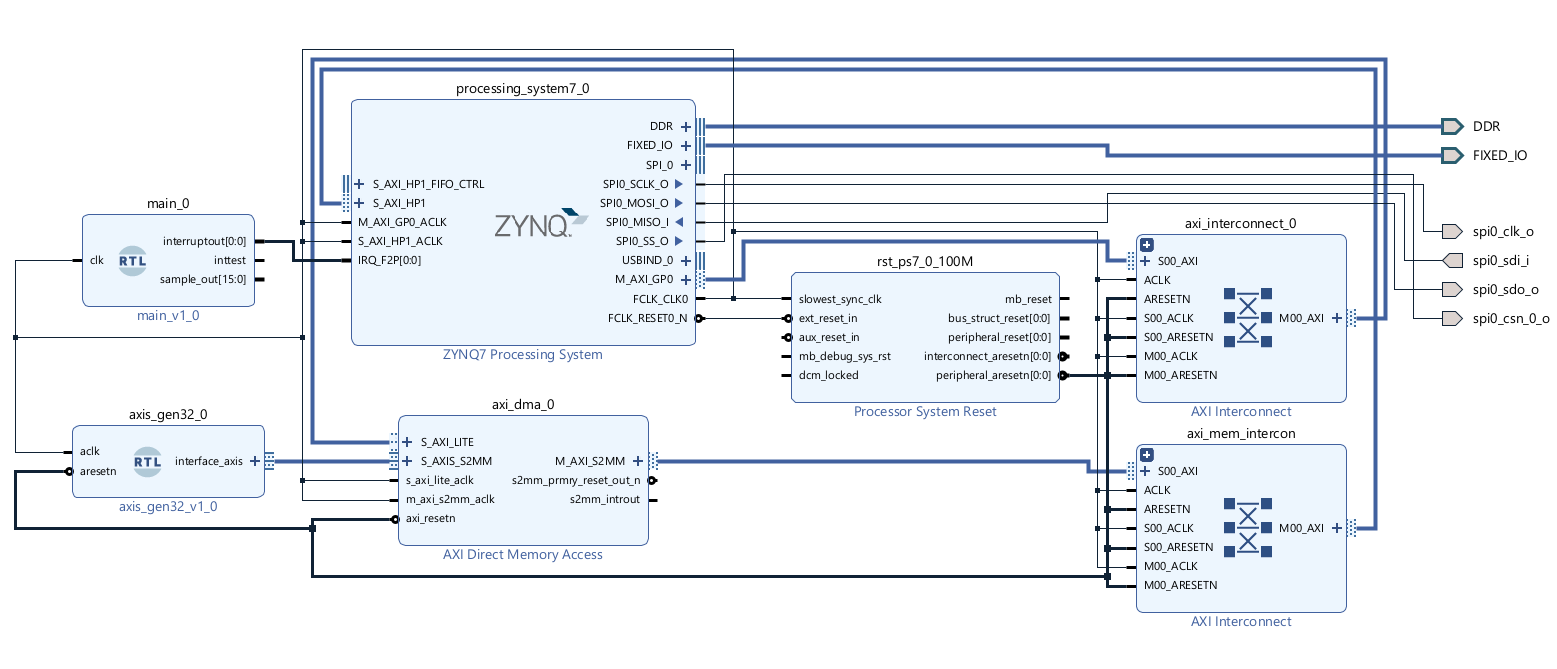
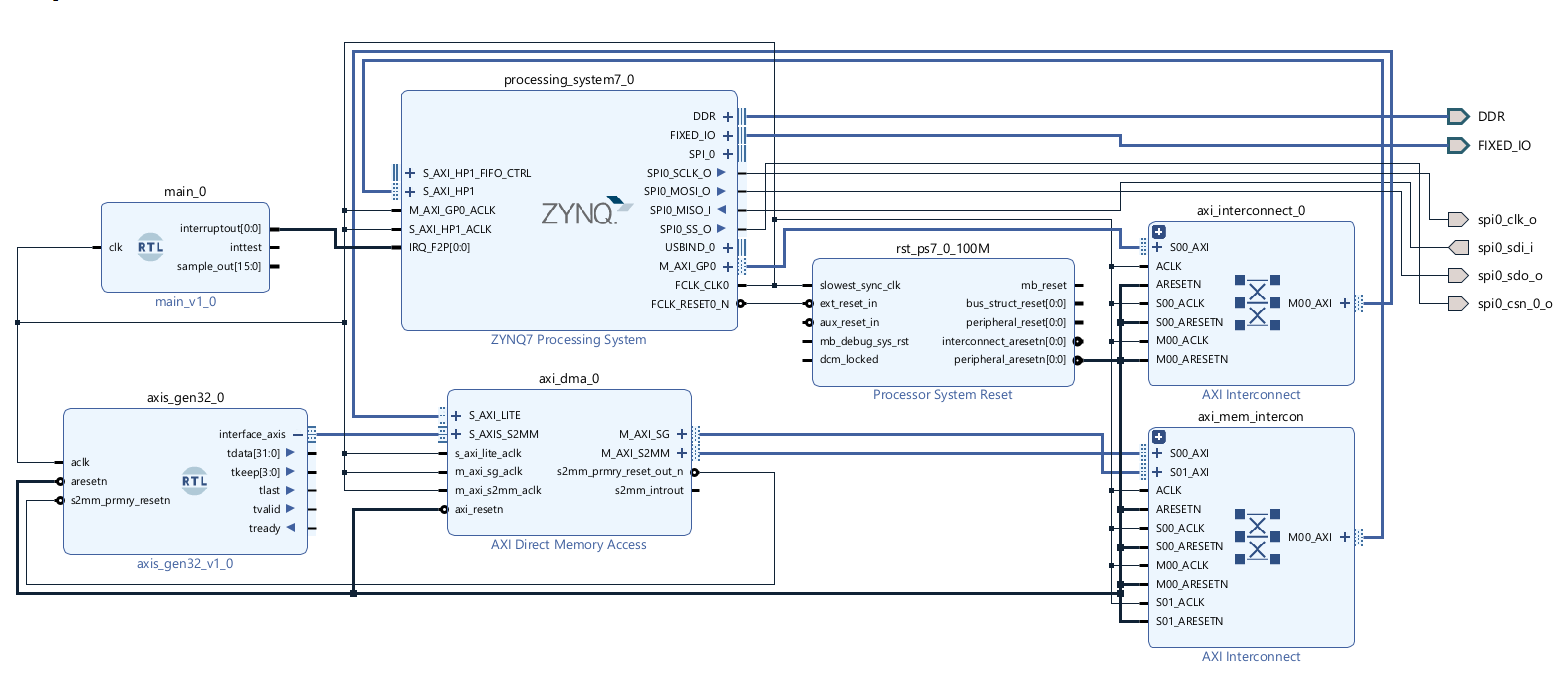
DMA SGmode - Debug state WORKED

Changed region(s): [[0.0, 0.0598, 0.9865, 0.9865], [0.0, 0.8371, 0.0308, 0.867]]

diff --git a/dma_stuff.c b/dma_stuff.c
@@ -5,6 +5,239 @@
 
 static XAxiDma AxiDma;
 
+/* ----------- SG mode ------------------ */
+
+#define INTC_DEV_ID  XPAR_SCUGIC_0_DEVICE_ID
+//#define DMA_IRQ_ID   XPAR_FABRIC_AXIDMA_0_S2MM_INTROUT_VEC_ID  // см. xparameters.h
+
+#define BLK_BYTES    (64)			// one frame size
+#define BD_COUNT     2              // two BD: for buf0 и buf1
+#define BD_ALIGN     64             // for AXI DMA BD always 64 bytes
+
+// --- Memory for BD-ring (в DDR), by 64, aligned 64
+static u8 BdSpace[BD_COUNT * BD_ALIGN] __attribute__((aligned(BD_ALIGN)));
+
+static u8 buf0[BLK_BYTES] __attribute__((aligned(64)));
+static u8 buf1[BLK_BYTES] __attribute__((aligned(64)));
+static volatile u32 g_rx_done = 0;
+
+// Глобально (для последующего опроса)
+static XAxiDma_BdRing *g_RxRing = NULL;
+
+
+
+// Глобалки для просмотра в отладчике
+volatile u32 dbg_s2mm_cr   = 0;
+volatile u32 dbg_s2mm_sr   = 0;
+volatile u32 dbg_s2mm_cdesc= 0;
+volatile u32 dbg_s2mm_tdesc= 0;
+volatile u32 dbg_s2mm_idle = 0;
+volatile u32 dbg_s2mm_halt = 0;
+volatile u32 dbg_s2mm_err  = 0;
+
+void dma_s2mm_capture_status(void)
+{
+    u32 base = AxiDma.RegBase;
+    u32 off  = XAXIDMA_RX_OFFSET;
+
+    dbg_s2mm_cr    = XAxiDma_ReadReg(base, off + XAXIDMA_CR_OFFSET);
+    dbg_s2mm_sr    = XAxiDma_ReadReg(base, off + XAXIDMA_SR_OFFSET);
+    dbg_s2mm_cdesc = XAxiDma_ReadReg(base, off + XAXIDMA_CDESC_OFFSET);
+    dbg_s2mm_tdesc = XAxiDma_ReadReg(base, off + XAXIDMA_TDESC_OFFSET);
+
+    dbg_s2mm_halt  = (dbg_s2mm_sr & 0x1u) ? 1u : 0u;       // Halted
+    dbg_s2mm_idle  = (dbg_s2mm_sr & 0x2u) ? 1u : 0u;       // Idle
+    dbg_s2mm_err   = (dbg_s2mm_sr & XAXIDMA_ERR_ALL_MASK); // Ошибки, если !=0
+}
+
+// DMASR bits (по даташиту AXI DMA)
+#define DMASR_HALTED      0x00000001
+#define DMASR_IDLE        0x00000002
+#define DMASR_SGINCLD     0x00000008
+#define DMASR_DMAINTERR   0x00000010
+#define DMASR_DMASLVERR   0x00000020
+#define DMASR_DMADECERR   0x00000040
+#define DMASR_SGINTERR    0x00000080
+#define DMASR_SGSLVERR    0x00000100
+#define DMASR_SGDECERR    0x00000200
+#define DMASR_IOC_IRQ     0x00001000
+#define DMASR_DLY_IRQ     0x00002000
+#define DMASR_ERR_IRQ     0x00004000
+
+volatile u32 dbg_sr_raw=0, dbg_halted=0, dbg_idle=0, dbg_sg=0;
+volatile u32 dbg_dma_int=0, dbg_dma_slv=0, dbg_dma_dec=0;
+volatile u32 dbg_sg_int=0,  dbg_sg_slv=0,  dbg_sg_dec=0;
+volatile u32 dbg_irq_ioc=0, dbg_irq_dly=0, dbg_irq_err=0;
+
+void dma_s2mm_capture_sr(void)
+{
+    u32 sr = XAxiDma_ReadReg(AxiDma.RegBase,
+                             XAXIDMA_RX_OFFSET + XAXIDMA_SR_OFFSET);
+
+    dbg_sr_raw = sr;
+    dbg_halted = (sr & DMASR_HALTED)   ? 1:0;
+    dbg_idle   = (sr & DMASR_IDLE)     ? 1:0;
+    dbg_sg     = (sr & DMASR_SGINCLD)  ? 1:0;
+
+    dbg_dma_int= (sr & DMASR_DMAINTERR) ? 1:0;  // internal err (DMA datapath)
+    dbg_dma_slv= (sr & DMASR_DMASLVERR) ? 1:0;  // SLVERR на M_AXI_S2MM
+    dbg_dma_dec= (sr & DMASR_DMADECERR) ? 1:0;  // DECERR на M_AXI_S2MM
+
+    dbg_sg_int = (sr & DMASR_SGINTERR)  ? 1:0;  // internal err (SG path)
+    dbg_sg_slv = (sr & DMASR_SGSLVERR)  ? 1:0;  // SLVERR на M_AXI_SG
+    dbg_sg_dec = (sr & DMASR_SGDECERR)  ? 1:0;  // DECERR на M_AXI_SG
+
+    dbg_irq_ioc= (sr & DMASR_IOC_IRQ)   ? 1:0;
+    dbg_irq_dly= (sr & DMASR_DLY_IRQ)   ? 1:0;
+    dbg_irq_err= (sr & DMASR_ERR_IRQ)   ? 1:0;
+}
+
+static void s2mm_soft_reset(void) {
+  u32 base = AxiDma.RegBase, off = XAXIDMA_RX_OFFSET;
+  XAxiDma_WriteReg(base, off + XAXIDMA_CR_OFFSET, XAXIDMA_CR_RESET_MASK);
+  while (XAxiDma_ReadReg(base, off + XAXIDMA_CR_OFFSET) & XAXIDMA_CR_RESET_MASK) {
+	  int c=5;
+  }
+}
+
+
+
+int dma_sg_init_and_start(void)
+{
+    int st;
+
+
+    XAxiDma_Config *cfg = XAxiDma_LookupConfig(DMA_DEV_ID);
+    if (!cfg) return XST_FAILURE;
+
+    st = XAxiDma_CfgInitialize(&AxiDma, cfg);
+    if (st != XST_SUCCESS) return st;
+
+    XAxiDma_Reset(&AxiDma);
+    while (!XAxiDma_ResetIsDone(&AxiDma)) {
+    	 int g=5;
+    }
+    dma_s2mm_capture_status();
+    dma_s2mm_capture_sr();
+
+    if (!XAxiDma_HasSg(&AxiDma)) return XST_FAILURE;
+
+    //s2mm_soft_reset();
+
+    // RX (S2MM) ring
+    g_RxRing = XAxiDma_GetRxRing(&AxiDma);
+
+    // Создаём ring поверх нашей памяти BdSpace
+    st = XAxiDma_BdRingCreate(
+            g_RxRing,
+            (UINTPTR)BdSpace,          // физ/вирт начало (baremetal: одинаковы)
+            (UINTPTR)BdSpace,
+            BD_ALIGN,                  // 64 байта на BD
+            BD_COUNT);
+    if (st != XST_SUCCESS) return st;
+    dma_s2mm_capture_sr();
+
+
+    dma_s2mm_capture_status();
+
+    // Шаблон BD
+    XAxiDma_Bd BdTemplate;
+    XAxiDma_BdClear(&BdTemplate);
+    st = XAxiDma_BdRingClone(g_RxRing, &BdTemplate);
+    if (st != XST_SUCCESS) return st;
+
+    // Первичная заправка: два BD на buf0 и buf1
+    XAxiDma_Bd *BdPtr;
+    st = XAxiDma_BdRingAlloc(g_RxRing, BD_COUNT, &BdPtr);
+    if (st != XST_SUCCESS) return st;
+
+    XAxiDma_Bd *Bd = BdPtr;
+
+    Xil_DCacheInvalidateRange((UINTPTR)buf0, BLK_BYTES);
+    st  = XAxiDma_BdSetBufAddr(Bd, (UINTPTR)buf0);
+    st |= XAxiDma_BdSetLength(Bd, BLK_BYTES, g_RxRing->MaxTransferLen);
+    //st |= XAxiDma_BdSetCtrl(Bd, XAXIDMA_BD_CTRL_IOC_MASK); // IOC можно оставить
+    if (st != XST_SUCCESS) return st;
+
+    Bd = XAxiDma_BdRingNext(g_RxRing, Bd);
+    dma_s2mm_capture_status();
+
+    Xil_DCacheInvalidateRange((UINTPTR)buf1, BLK_BYTES);
+    st  = XAxiDma_BdSetBufAddr(Bd, (UINTPTR)buf1);
+    st |= XAxiDma_BdSetLength(Bd, BLK_BYTES, g_RxRing->MaxTransferLen);
+    //st |= XAxiDma_BdSetCtrl(Bd, XAXIDMA_BD_CTRL_IOC_MASK);
+    if (st != XST_SUCCESS) return st;
+
+    // Отдаём BD железу
+    Xil_DCacheFlushRange((UINTPTR)BdSpace, BD_COUNT * BD_ALIGN);
+    st = XAxiDma_BdRingToHw(g_RxRing, BD_COUNT, BdPtr);
+    if (st != XST_SUCCESS) return st;
+
+    // ВНИМАНИЕ: прерывания НЕ включаем (polling)
+    // XAxiDma_BdRingIntEnable(...);  // <-- удалено
+
+    // Стартуем приём
+    st = XAxiDma_BdRingStart(g_RxRing);
+    dma_s2mm_capture_sr();
+    dma_s2mm_capture_status();
+
+    return st;
+}
+
+
+// опционально: дамп статуса канала (полезно при отладке)
+static inline void dma_dump_s2mm_status(void) {
+    u32 sr = XAxiDma_ReadReg(AxiDma.RegBase, XAXIDMA_RX_OFFSET + XAXIDMA_SR_OFFSET);
+    xil_printf("S2MM DMASR=0x%08lx (Halted=%d Idle=%d Err=0x%lx)\r\n",
+        (unsigned long)sr,
+        (int)(sr & 1), (int)((sr >> 1) & 1),
+        (unsigned long)(sr & XAXIDMA_ERR_ALL_MASK));
+}
+
+// один «тик» поллинга (забрать готовые BD, инвалидация, ре-зарядка)
+void dma_sg_poll_once(void)
+{
+    if (!g_RxRing) return;
+
+    XAxiDma_Bd *bd_done;
+    int n = XAxiDma_BdRingFromHw(g_RxRing, BD_COUNT, &bd_done);
+    if (n <= 0) return;
+
+    XAxiDma_Bd *bd = bd_done;
+    for (int i = 0; i < n; i++) {
+
+        // адрес буфера, куда DMA только что написал
+        UINTPTR addr = XAxiDma_BdGetBufAddr(bd);
+
+        // (если доступно в вашей версии) фактическая длина
+        // u32 act = XAxiDma_BdGetActualLength(bd, g_RxRing->MaxTransferLen);
+
+        // ВАЖНО: перед чтением CPU — обновить кэш, чтобы увидеть «свежее»
+        Xil_DCacheInvalidateRange(addr, BLK_BYTES);
+
+        // --- пример: показать первые 8 байт ---
+        u8 *p = (u8 *)addr;
+
+
+        // РЕ-ЗАРЯДКА этого же BD (чтобы поток не останавливался)
+        // (invalidate перед подачей под S2MM уже сделан только что; можно ещё раз)
+        Xil_DCacheInvalidateRange(addr, BLK_BYTES);
+        XAxiDma_BdSetBufAddr(bd, addr);
+        XAxiDma_BdSetLength(bd, BLK_BYTES, g_RxRing->MaxTransferLen);
+        // Ctrl/IOC не обязателен в поллинге
+
+        bd = XAxiDma_BdRingNext(g_RxRing, bd);
+    }
+
+
+    // вернуть обработанные BD обратно в железо
+    XAxiDma_BdRingToHw(g_RxRing, n, bd_done);
+}
+
+
+
+
+/// Old dma
 int dma_init(void) {
     XAxiDma_Config *cfg = XAxiDma_LookupConfig(DMA_DEV_ID);
     if (!cfg) return -1;

diff --git a/main.c b/main.c
@@ -133,6 +133,9 @@ static int ConnectPlIrq(u32 FabricIntrId) {
 
 int main() {
 
+	Xil_DCacheDisable();
+	    Xil_ICacheDisable();
+
 	gpio_init();
 	usb_bulk_set_gpio(&Gpio, LED_MIO);
 	usleep(3);
@@ -156,7 +159,7 @@ int main() {
 
 
 		while (1) {
-			nbuf_fill();
+		//	nbuf_fill();
 		}
 
 }

diff --git a/usb_bulk.c b/usb_bulk.c
@@ -35,9 +35,9 @@ void usb_bulk_set_instance(XUsbPs *inst) {
 
 void usb_bulk_init(void) {
 	nbuf_init(&nb);
-	dma_init();
-	//nbuf_fill_init();
-
+	//dma_init();
+	dma_sg_init_and_start();
+	dma_sg_poll_once();
 }
 
 static int try_kick_tx(void) {

diff --git a/dma_stuff.h b/dma_stuff.h
@@ -4,3 +4,6 @@
 int dma_init(void);
 void nbuf_fill_init(void);
 int dma_s2mm_start(void *dst_buf, size_t nbytes);
+
+int dma_sg_init_and_start(void);
+void dma_sg_poll_once(void);

diff --git a/py/!readme4comit.md b/py/!readme4comit.md
@@ -1,1 +1,3 @@
-DMA sends 64bytes to n-buf. What must be Done - n-buf is sending to USB.
+DMA SG Mode debug! 
+1. In DMA stuff - debug registers
+2. Started to work after correct Addresses in Address editor - see in addr_editor.png
